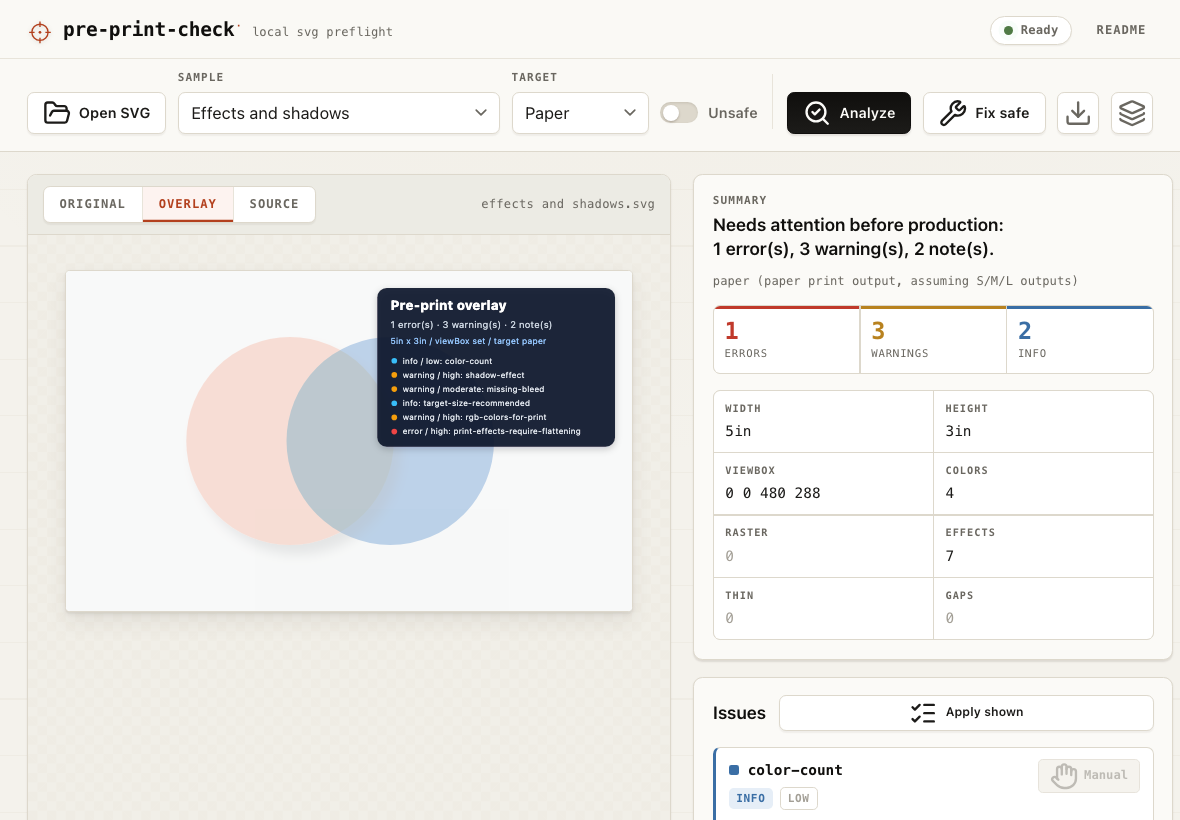
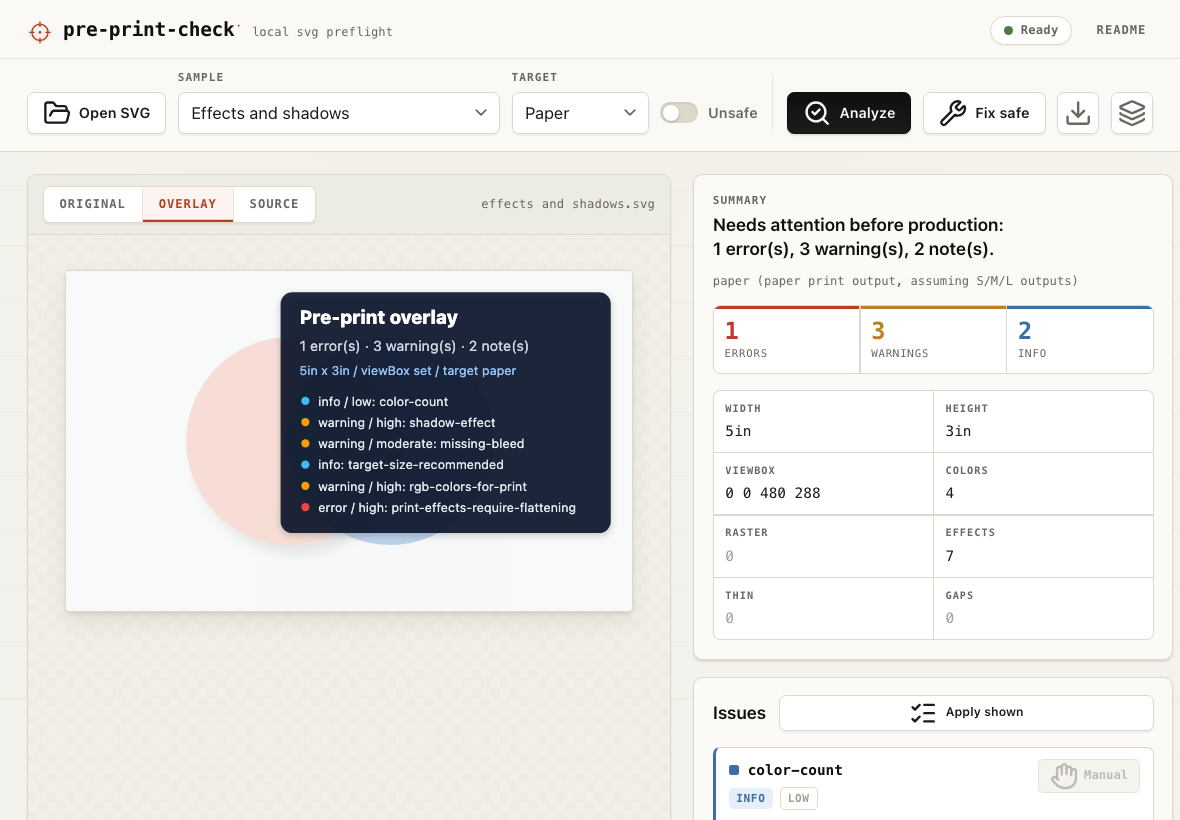
feat: introduce public Go package for SVG preflight checks, overlays, and repairs; update README and CLI instructions

Changed region(s): [[0.2136, 0.3354, 0.5186, 0.6707]]

diff --git a/internal/svgcheck/overlay.go b/internal/svgcheck/overlay.go
@@ -42,15 +42,16 @@ func GenerateOverlay(input []byte, opts OverlayOptions) ([]byte, error) {
 	viewBox := overlayViewBox(data.Meta)
 	minX, minY, width, height := parseViewBoxOrDefault(viewBox)
 	scale := overlayScale(width, height)
-	panelWidth := width * 0.42
-	if panelWidth < 180*scale {
-		panelWidth = 180 * scale
+	panelScale := scale * 1.25
+	panelWidth := width * 0.50
+	if panelWidth < 280*panelScale {
+		panelWidth = 280 * panelScale
 	}
 	if panelWidth > width*0.72 {
 		panelWidth = width * 0.72
 	}
-	panelX := minX + width - panelWidth - 18*scale
-	panelY := minY + 18*scale
+	panelX := minX + width - panelWidth - 18*panelScale
+	panelY := minY + 18*panelScale
 
 	out.WriteString(`<?xml version="1.0" encoding="UTF-8"?>` + "\n")
 	fmt.Fprintf(&out, `<svg xmlns="http://www.w3.org/2000/svg" width="%s" height="%s" viewBox="%s">`+"\n",
@@ -67,7 +68,7 @@ func GenerateOverlay(input []byte, opts OverlayOptions) ([]byte, error) {
 	out.WriteString(`<g id="pre-print-check-overlay" font-family="Inter, ui-sans-serif, system-ui, -apple-system, BlinkMacSystemFont, 'Segoe UI', sans-serif">` + "\n")
 	writeThinShapeHighlights(&out, data.ThinShapes, scale)
 	writeNearDisconnectedHighlights(&out, data.Endpoints, scale)
-	writeOverlayPanel(&out, data.Report, panelX, panelY, panelWidth, scale)
+	writeOverlayPanel(&out, data.Report, panelX, panelY, panelWidth, panelScale)
 	out.WriteString("</g>\n</svg>\n")
 	return []byte(out.String()), nil
 }
@@ -169,19 +170,19 @@ func writeNearDisconnectedHighlights(out *strings.Builder, endpoints []geometryE
 
 func writeOverlayPanel(out *strings.Builder, report Report, x, y, width, scale float64) {
 	errors, warnings, info := report.IssueCounts()
-	lineHeight := 15 * scale
-	height := (78 + float64(min(len(report.Issues), 6))*15) * scale
+	lineHeight := 18 * scale
+	height := (96 + float64(min(len(report.Issues), 6))*18) * scale
 	fmt.Fprintf(out, `<g id="pre-print-check-overlay-panel" transform="translate(%s %s)" filter="url(#ppt-overlay-shadow)">`+"\n", trimFloat(x), trimFloat(y))
 	fmt.Fprintf(out, `<rect x="0" y="0" width="%s" height="%s" rx="%s" fill="#0f172a" opacity="0.92"/>`+"\n", trimFloat(width), trimFloat(height), trimFloat(10*scale))
-	fmt.Fprintf(out, `<text x="%s" y="%s" font-size="%s" font-weight="800" fill="#ffffff">Pre-print overlay</text>`+"\n", trimFloat(14*scale), trimFloat(23*scale), trimFloat(14*scale))
-	fmt.Fprintf(out, `<text x="%s" y="%s" font-size="%s" fill="#cbd5e1">%d error(s) · %d warning(s) · %d note(s)</text>`+"\n", trimFloat(14*scale), trimFloat(42*scale), trimFloat(10*scale), errors, warnings, info)
-	fmt.Fprintf(out, `<text x="%s" y="%s" font-size="%s" fill="#93c5fd">%s</text>`+"\n", trimFloat(14*scale), trimFloat(59*scale), trimFloat(9*scale), escapeText(overlayMetaSummary(report)))
+	fmt.Fprintf(out, `<text x="%s" y="%s" font-size="%s" font-weight="800" fill="#ffffff">Pre-print overlay</text>`+"\n", trimFloat(16*scale), trimFloat(27*scale), trimFloat(16*scale))
+	fmt.Fprintf(out, `<text x="%s" y="%s" font-size="%s" fill="#cbd5e1">%d error(s) · %d warning(s) · %d note(s)</text>`+"\n", trimFloat(16*scale), trimFloat(50*scale), trimFloat(12*scale), errors, warnings, info)
+	fmt.Fprintf(out, `<text x="%s" y="%s" font-size="%s" fill="#93c5fd">%s</text>`+"\n", trimFloat(16*scale), trimFloat(70*scale), trimFloat(10.5*scale), escapeText(overlayMetaSummary(report)))
 
-	yCursor := 80 * scale
+	yCursor := 96 * scale
 	for i, issue := range report.Issues {
 		if i >= 6 {
 			remaining := len(report.Issues) - i
-			fmt.Fprintf(out, `<text x="%s" y="%s" font-size="%s" fill="#94a3b8">+ %d more in the terminal report</text>`+"\n", trimFloat(14*scale), trimFloat(yCursor), trimFloat(9*scale), remaining)
+			fmt.Fprintf(out, `<text x="%s" y="%s" font-size="%s" fill="#94a3b8">+ %d more in the terminal report</text>`+"\n", trimFloat(16*scale), trimFloat(yCursor), trimFloat(10.5*scale), remaining)
 			break
 		}
 		color := severityColor(issue.Severity)
@@ -189,9 +190,9 @@ func writeOverlayPanel(out *strings.Builder, report Report, x, y, width, scale f
 		if issue.Rank != "" {
 			rank = " / " + string(issue.Rank)
 		}
-		fmt.Fprintf(out, `<circle cx="%s" cy="%s" r="%s" fill="%s"/>`+"\n", trimFloat(18*scale), trimFloat(yCursor-3*scale), trimFloat(3*scale), color)
+		fmt.Fprintf(out, `<circle cx="%s" cy="%s" r="%s" fill="%s"/>`+"\n", trimFloat(21*scale), trimFloat(yCursor-4*scale), trimFloat(3.5*scale), color)
 		fmt.Fprintf(out, `<text x="%s" y="%s" font-size="%s" fill="#e2e8f0">%s%s: %s</text>`+"\n",
-			trimFloat(27*scale), trimFloat(yCursor), trimFloat(8.6*scale), escapeText(string(issue.Severity)), escapeText(rank), escapeText(issue.Code))
+			trimFloat(32*scale), trimFloat(yCursor), trimFloat(10.5*scale), escapeText(string(issue.Severity)), escapeText(rank), escapeText(issue.Code))
 		yCursor += lineHeight
 	}
 	out.WriteString("</g>\n")